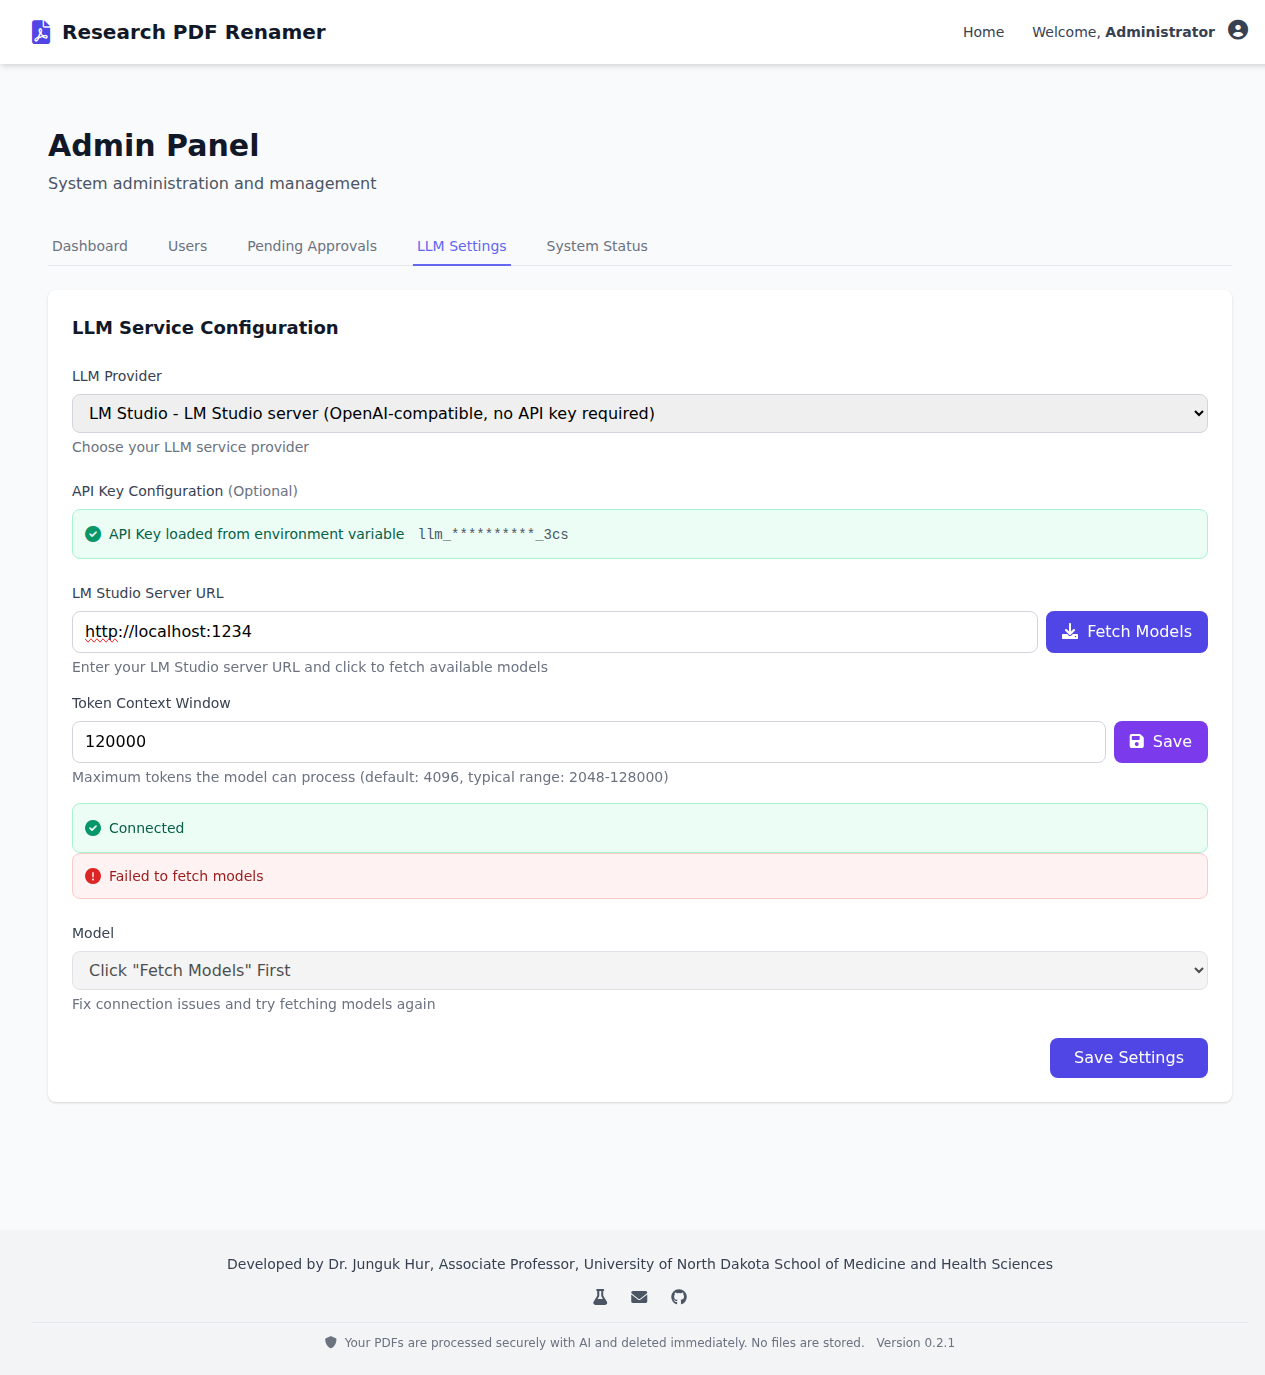
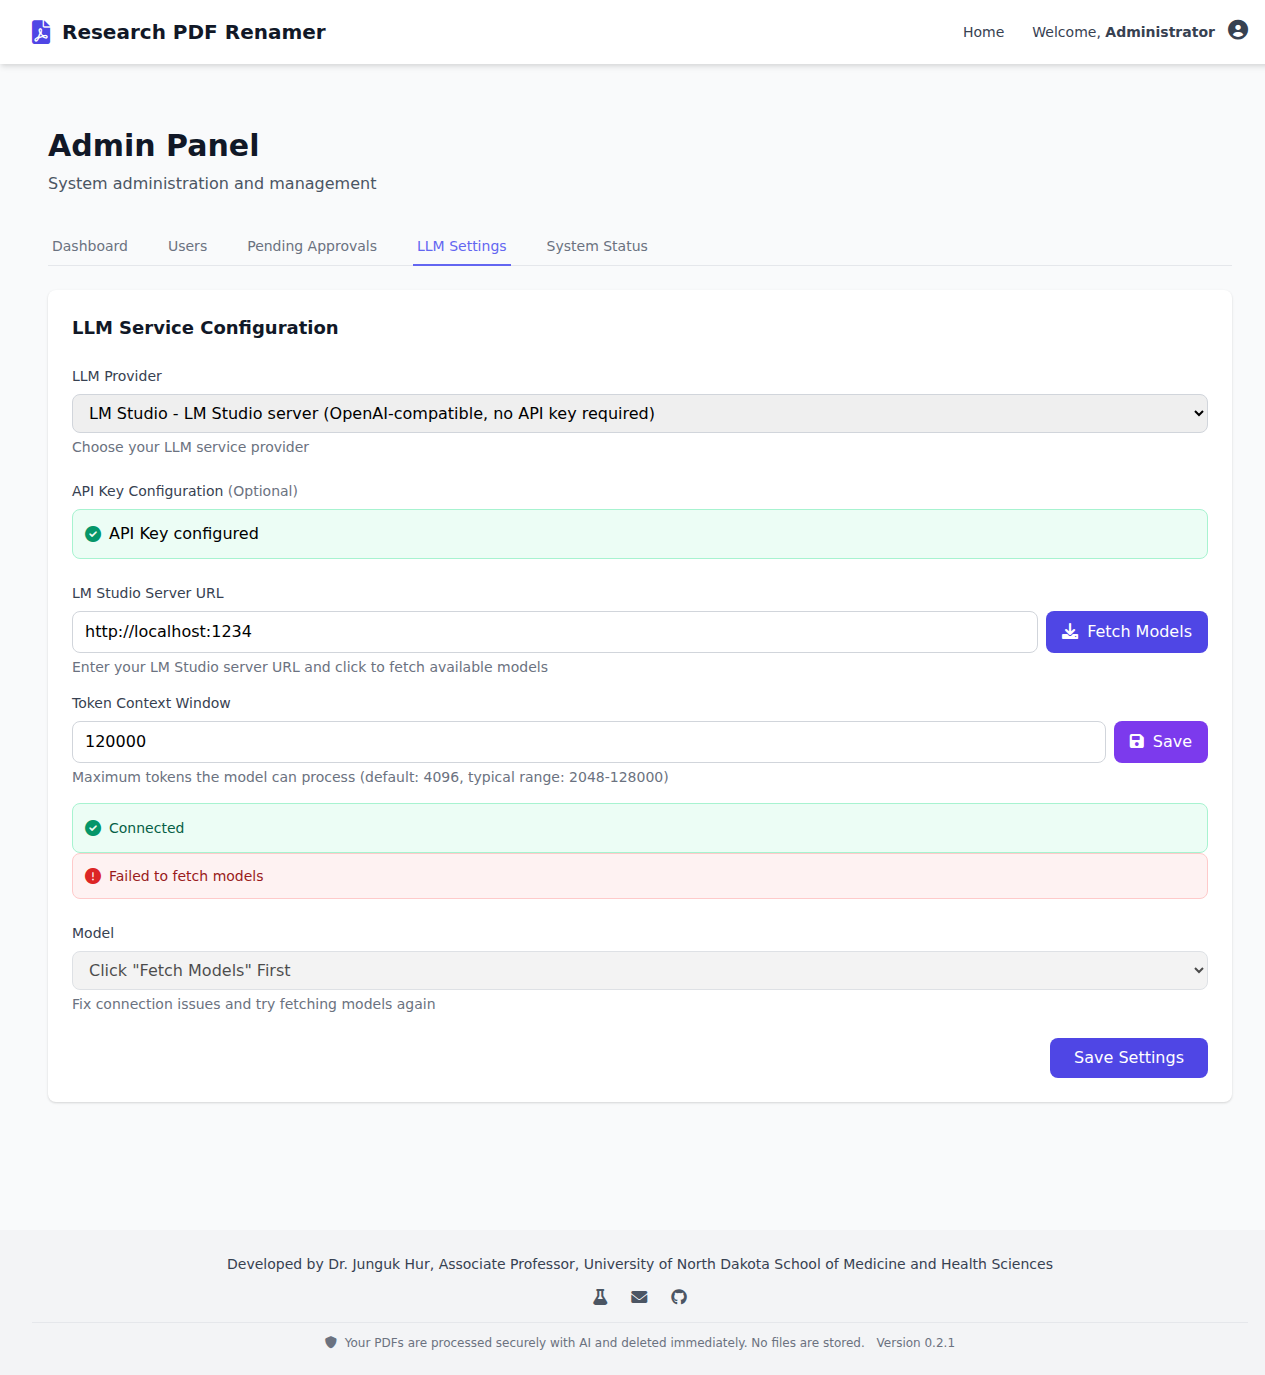
fix: remove exposed secrets and harden security defaults
- Replace hardcoded private IP 10.226.96.211 with localhost in admin.html
  LM Studio placeholder (was exposing internal network topology)
- Remove insecure fallback "default-secret-key" in settings.py Fernet
  cipher; now raises RuntimeError if SECRET_KEY not configured
- Auto-generate random SECRET_KEY in systemd install script instead of
  static CHANGE_THIS_TO_RANDOM_STRING placeholder
- Retake LLM settings screenshot with API key hint fully masked
- Add last-updated date to README.md

🗿 MoAI <email@mo.ai.kr>

diff --git a/frontend/templates/admin.html b/frontend/templates/admin.html
@@ -1016,7 +1016,7 @@
                     } else if (selectedProvider === 'lm-studio') {
                         if (serverUrlLabel) serverUrlLabel.textContent = 'LM Studio Server URL';
                         if (serverUrlHelp) serverUrlHelp.textContent = 'Enter your LM Studio server URL and click to fetch available models';
-                        if (ollamaUrlInput) ollamaUrlInput.placeholder = 'http://10.226.96.211:1234/v1';
+                        if (ollamaUrlInput) ollamaUrlInput.placeholder = 'http://localhost:1234/v1';
                     }
 
                     // Set server URL from provider-specific settings

diff --git a/backend/models/settings.py b/backend/models/settings.py
@@ -71,7 +71,9 @@ class SystemSettings(db.Model):
         """
         from flask import current_app
 
-        secret_key = current_app.config.get("SECRET_KEY", "default-secret-key")
+        secret_key = current_app.config.get("SECRET_KEY")
+        if not secret_key:
+            raise RuntimeError("SECRET_KEY must be configured for API key encryption")
 
         if legacy:
             if cls._legacy_cipher is None:

diff --git a/README.md b/README.md
@@ -266,3 +266,5 @@ MIT License
 ---
 
 Developed by [Dr. Junguk Hur](https://med.und.edu/research/labs/hur/index.html), Associate Professor, University of North Dakota School of Medicine and Health Sciences
+
+*Last updated: March 22, 2026*
